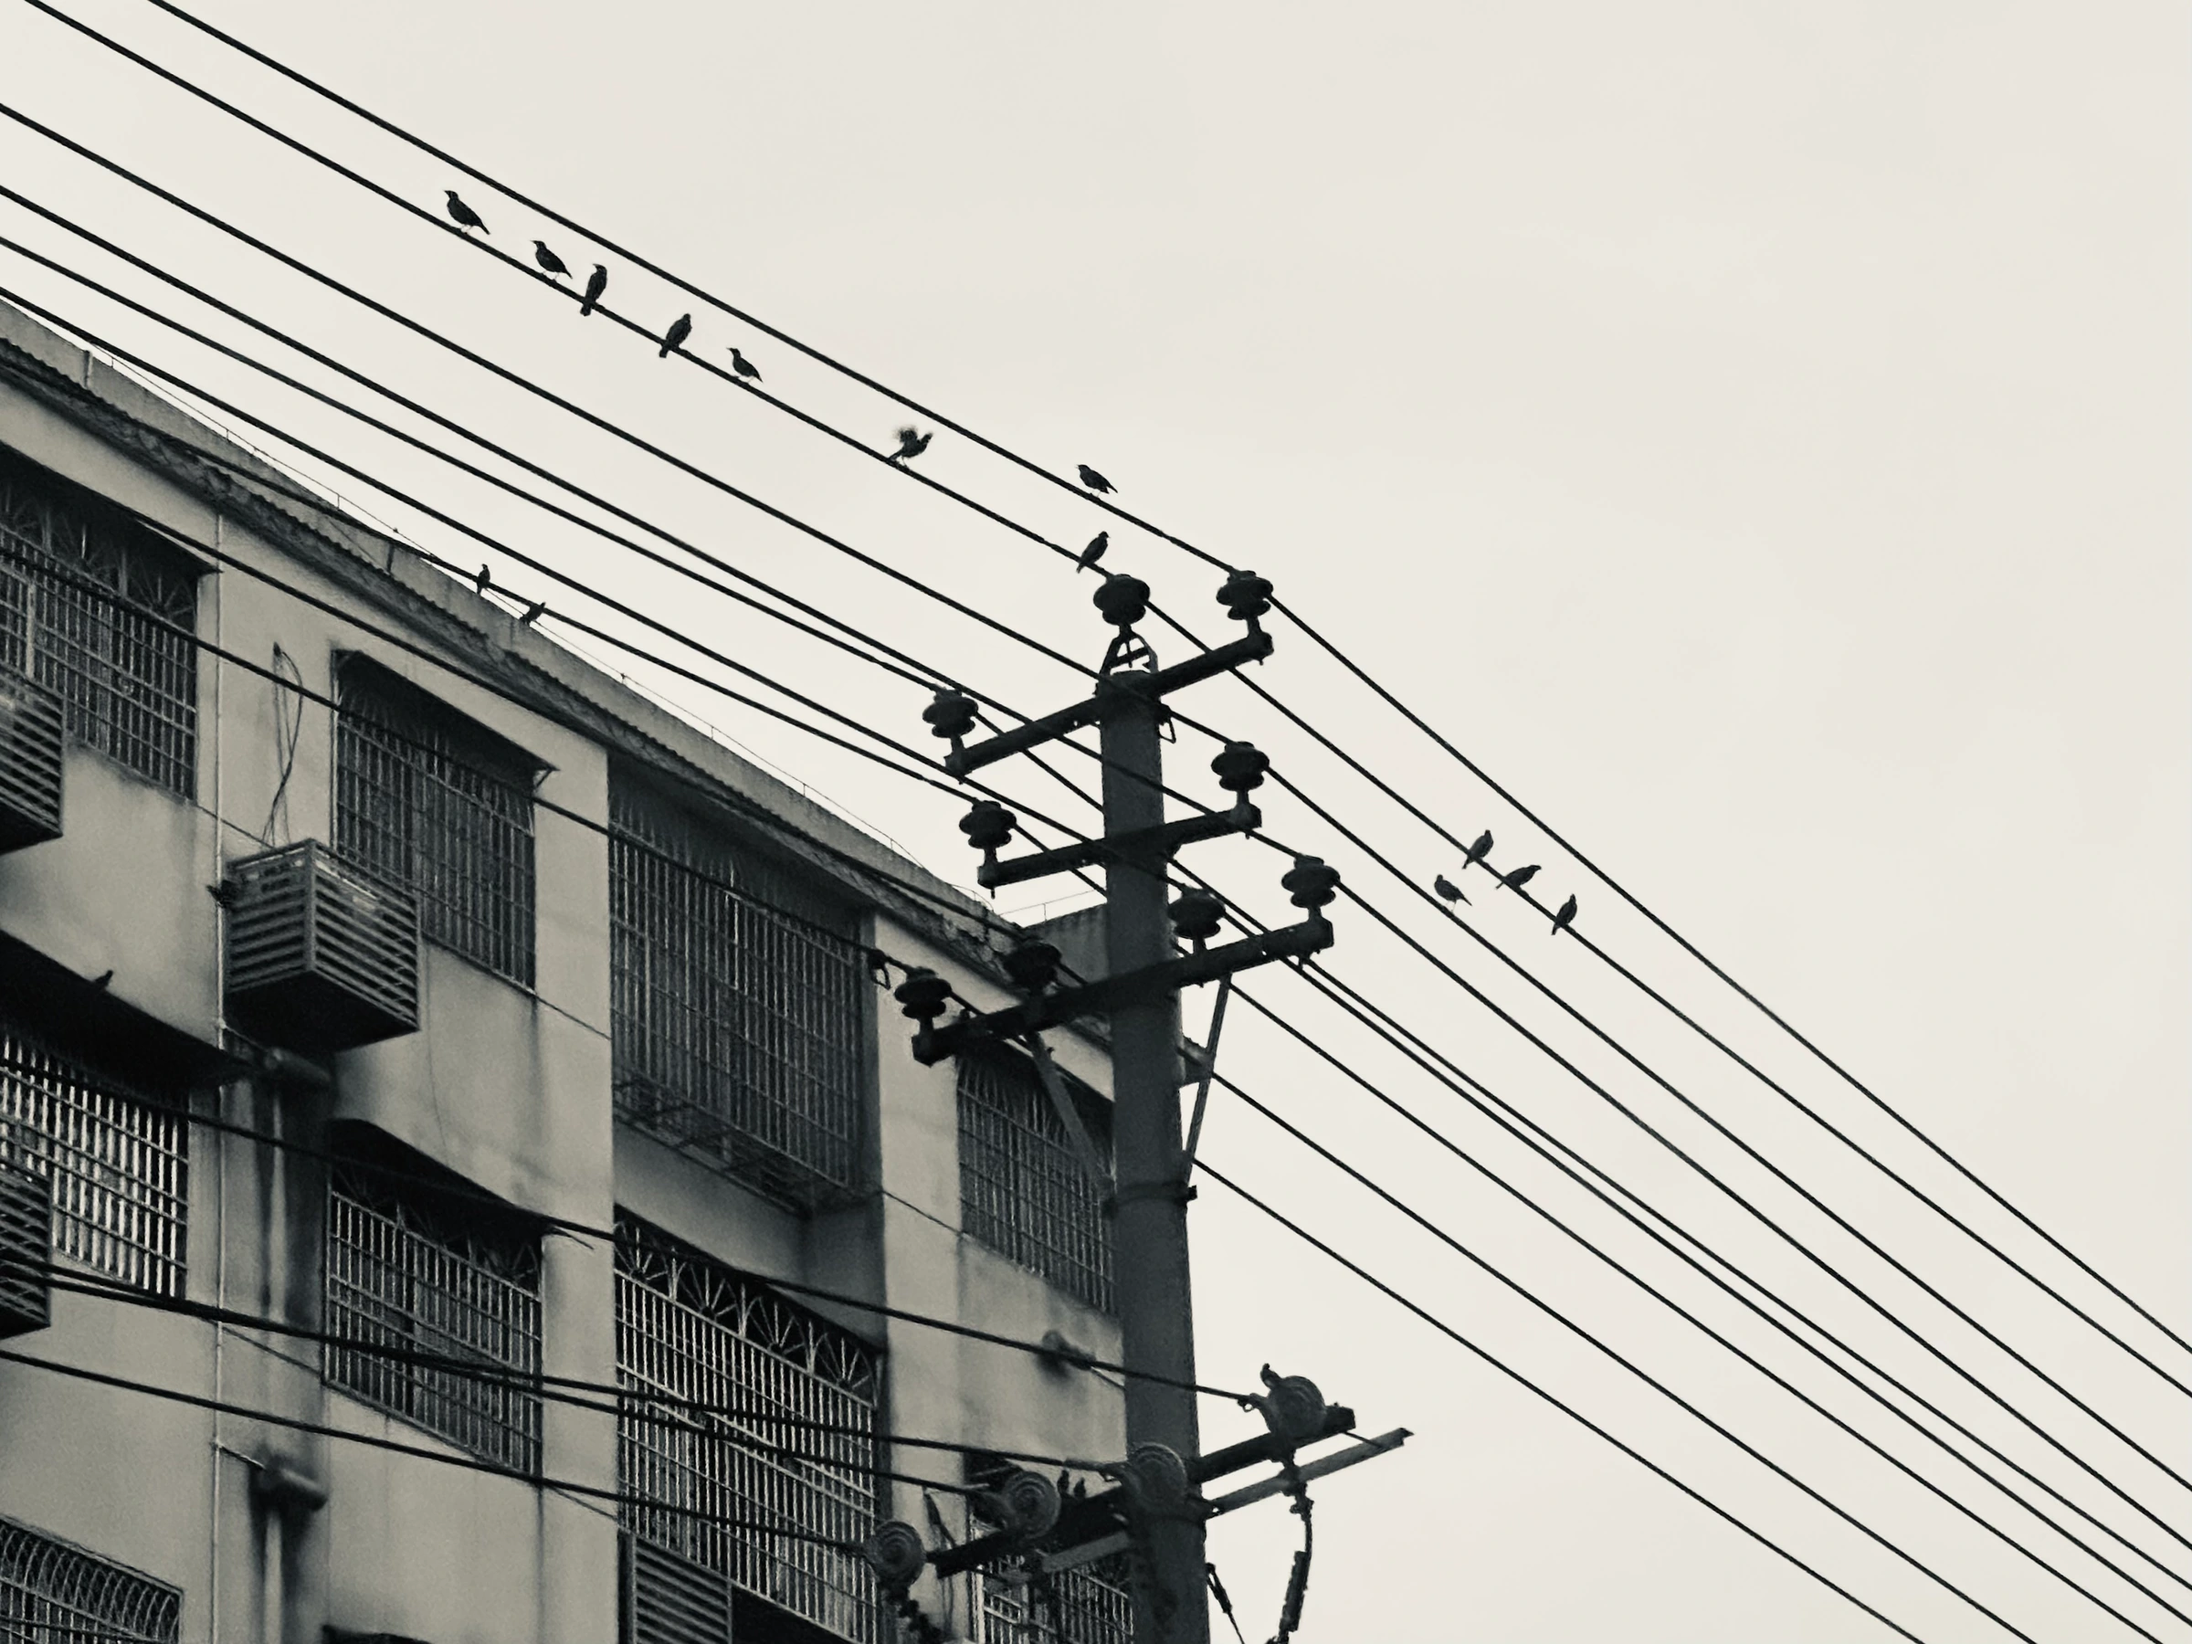
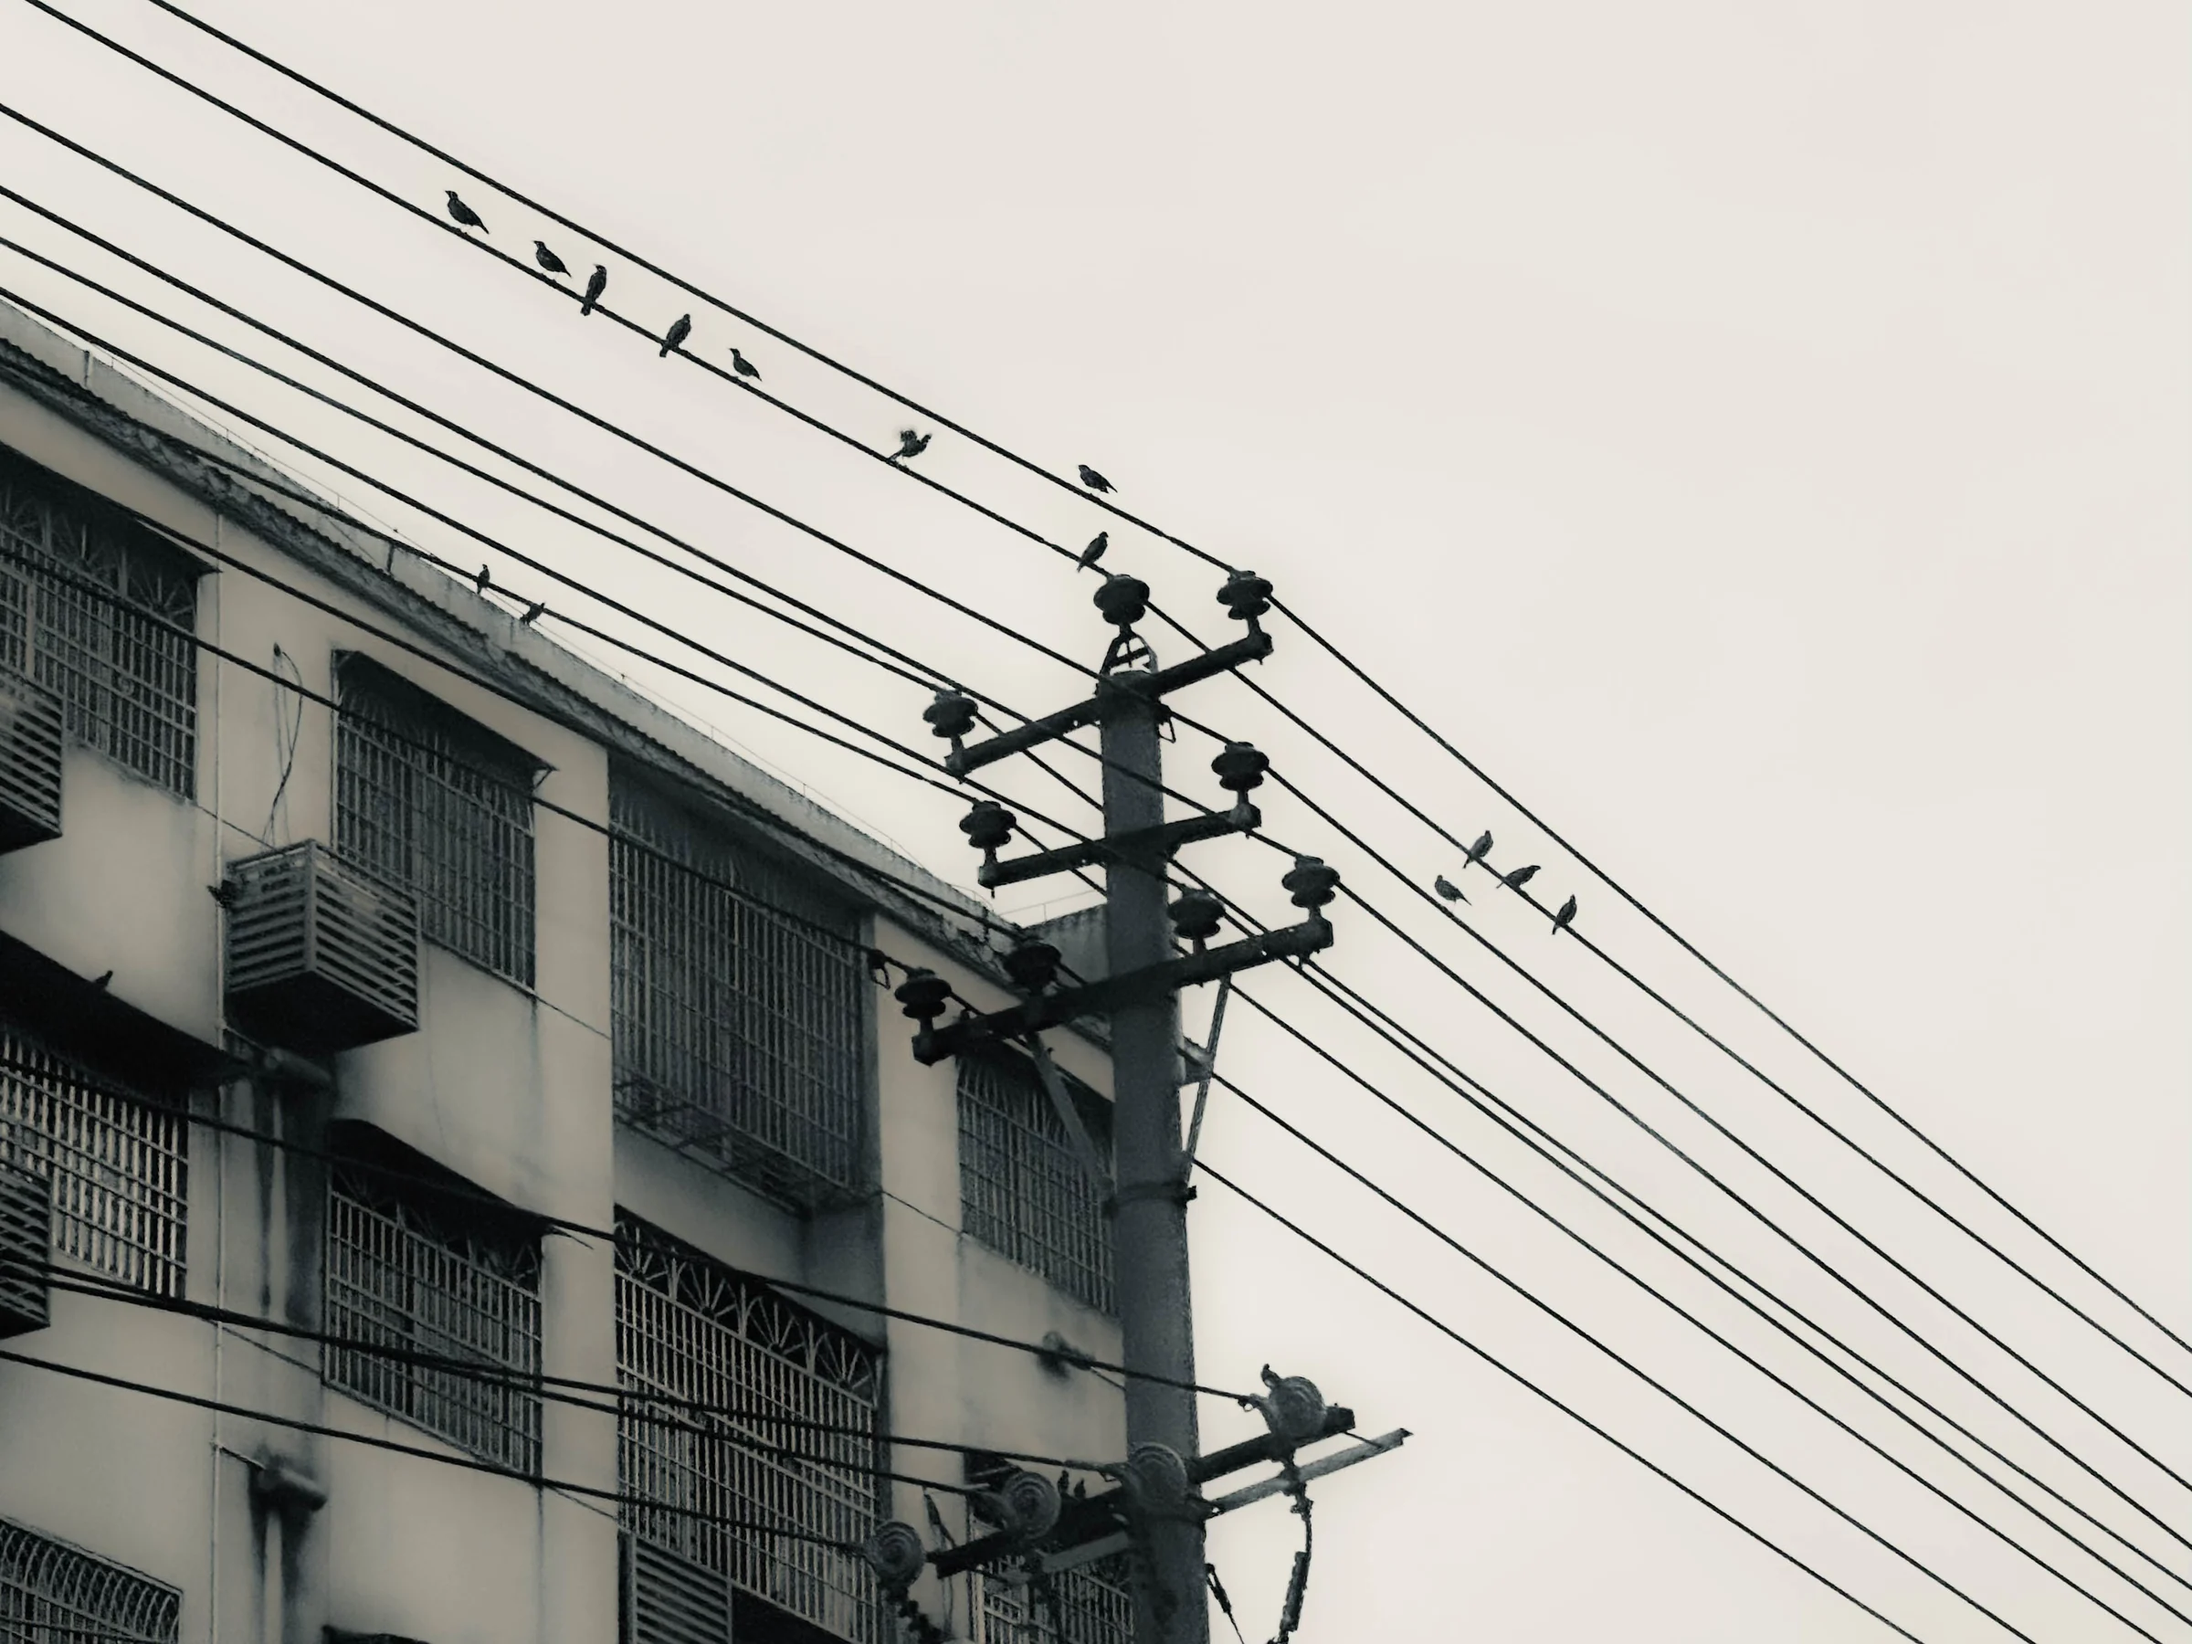
Expand photography gallery to all 25 supplied photos

diff --git a/src/portfolio.js b/src/portfolio.js
@@ -1,3 +1,5 @@
+import photography from './photography.json';
+
 export const profile = {
   name: '刘丹钰', romanized: 'LIU DANYU', email: '2984505134@qq.com',
   school: '湖南工业大学', major: '陶瓷艺术设计', education: '本科 · 2023.09—2027.06',
@@ -33,10 +35,10 @@ export const works = [
   {
     id:'photography',number:'03',title:'摄影',subtitle:'日常观察',category:'摄影作品',themes:['形态','色彩'],
     image:artwork('photo-1.webp'),alt:'浅色天空下有红框窗户和岁月痕迹的老楼立面',
-    intro:'建筑、枝叶与天空，\n日常里的停顿。',
-    description:'三张摄影作品记录建筑立面、街道电线与枝叶。不同场景里的线条、光影和色彩，构成日常观察的切片。',
-    process:'老楼窗框与立面形成纵向节奏，电线和停驻的鸟构成斜向排列，蓝天与暖色枝叶形成对照。第二张作品的原文件记录为「9月28日18：18 醴陵国瓷大道」。',
-    gallery:[asset('photo',1,'建筑立面'),asset('photo',2,'9月28日18：18 · 醴陵国瓷大道'),asset('photo',3,'枝叶与蓝天')],
+    intro:'街巷、山水与光影，\n日常里的停顿。',
+    description:`${photography.length} 张摄影作品，记录建筑与街巷、山水与田野，也关注窗格、枝叶和日常器物中的细节。从城市到自然，以不同场景中的线条、光影与色彩串起日常观察。`,
+    process:'门廊、窗格与电线形成画面中的线条；湖面和拱桥带来倒影；远山、田野与树林呈现不同的光线和色彩。第二张作品的原文件记录为「9月28日18：18 醴陵国瓷大道」，末张为《向上看》。',
+    gallery:photography.map(({index,label})=>({...asset('photo',index,label),thumbnail:artwork(`photo-${index}-thumb.webp`)})),
   },
   {
     id:'applications',number:'04',title:'果点 · 应用',subtitle:'FRUIT DOTS · 从平面到日常',category:'视觉应用',themes:['色彩','秩序'],

diff --git a/src/App.jsx b/src/App.jsx
@@ -54,7 +54,7 @@ function WorkDetail({ work, onClose, onChoose }) {
     <div className="gallery-panel">
       <div className="detail-image"><a href={selectedImage.src} target="_blank" rel="noreferrer" aria-label={`查看大图：${selectedImage.label}`}><img src={selectedImage.src} alt={`${work.title} · ${selectedImage.label}`} decoding="async" /></a></div>
       <div className="gallery-toolbar"><button aria-label="上一张图片" disabled={imageIndex===0} onClick={()=>setImageIndex(i=>i-1)}><ArrowRightIcon size={19} style={{transform:'rotate(180deg)'}} /></button><p aria-live="polite">{imageIndex+1} / {work.gallery.length} <span>{selectedImage.label}</span></p><button aria-label="下一张图片" disabled={imageIndex===work.gallery.length-1} onClick={()=>setImageIndex(i=>i+1)}><ArrowRightIcon size={19} /></button></div>
-      <div className="gallery-thumbnails" aria-label="作品图片">{work.gallery.map((img,i)=><button key={img.src} className={i===imageIndex?'selected':''} aria-pressed={i===imageIndex} aria-label={`查看图片：${img.label}`} onClick={()=>setImageIndex(i)}><img src={img.src} alt="" loading="lazy" decoding="async" /></button>)}</div>
+      <div className="gallery-thumbnails" aria-label="作品图片">{work.gallery.map((img,i)=><button key={img.src} className={i===imageIndex?'selected':''} aria-pressed={i===imageIndex} aria-label={`查看图片：${img.label}`} onClick={()=>setImageIndex(i)}><img src={img.thumbnail || img.src} alt="" loading="lazy" decoding="async" /></button>)}</div>
       <a className="full-image-link" href={selectedImage.src} target="_blank" rel="noreferrer">查看大图 <ArrowUpRightIcon size={16} /></a>
     </div>
     <div className="detail-content"><span className="eyebrow">档案 {work.number} / {work.category}</span><h3>{work.title}</h3><p className="detail-subtitle">{work.subtitle}</p><p className="detail-intro">{work.intro}</p>

diff --git a/scripts/import-photography.py b/scripts/import-photography.py
@@ -1,0 +1,62 @@
+"""Import the owner's photography folder as web images without changing originals."""
+import argparse
+import json
+from pathlib import Path
+from PIL import Image, ImageOps
+
+PHOTOS = [
+    ('_DSC6060.JPG', '建筑立面'),
+    ('9月28日18：18醴陵国瓷大道.jpg', '9月28日18：18 · 醴陵国瓷大道'),
+    ('微信图片_20240628122831.jpg', '枝叶与蓝天'),
+    ('_DSC0434.JPG', '门廊与光'),
+    ('_DSC0625.JPG', '晾晒的面条'),
+    ('_DSC0801.jpg', '池中浮叶'),
+    ('_DSC0809.JPG', '木桶与水瓢'),
+    ('_DSC1236.jpg', '草地上的牛'),
+    ('_DSC1425.jpg', '湖面与远山'),
+    ('_DSC1435.jpg', '山壁与公路'),
+    ('_DSC1720.JPG', '拱桥与倒影'),
+    ('_DSC1738.jpg', '田间青绿'),
+    ('_DSC1740.JPG', '田野与云'),
+    ('_DSC5827.jpg', '飞鸟'),
+    ('_DSC5918.jpg', '雾中的高楼'),
+    ('_DSC6057.jpg', '停泊的小船'),
+    ('_DSC6674.jpg', '林荫道路'),
+    ('_DSC8237-2.jpg', '林间草木'),
+    ('_DSC8238.jpg', '枝叶之间的天空'),
+    ('DSC_0570.jpg', '铁塔与电线'),
+    ('DSC_1589.jpg', '夕阳下的屋顶'),
+    ('DSC_1593.jpg', '山间光束'),
+    ('DSC_1689.jpg', '窗格与光影'),
+    ('微信图片_20240519144711.jpg', '夜色剪影'),
+    ('陶瓷艺术设计2304刘丹钰《向上看》.jpg', '向上看'),
+]
+
+def main():
+    parser = argparse.ArgumentParser(description=__doc__)
+    parser.add_argument('source', type=Path)
+    args = parser.parse_args()
+    root = Path(__file__).resolve().parents[1]
+    dest = root / 'public' / 'assets' / 'works'
+    available = {p.name for p in args.source.iterdir() if p.suffix.lower() in {'.jpg', '.jpeg', '.png'}}
+    assert available == {name for name, _ in PHOTOS}, 'Source photos do not match the import list'
+    gallery = []
+    total_input = total_output = 0
+    for i, (filename, label) in enumerate(PHOTOS, 1):
+        source = args.source / filename
+        total_input += source.stat().st_size
+        with Image.open(source) as original:
+            image = ImageOps.exif_transpose(original).convert('RGB')
+            for suffix, limit, quality in [('', 2400, 86), ('-thumb', 320, 78)]:
+                variant = image.copy()
+                variant.thumbnail((limit, limit), Image.Resampling.LANCZOS)
+                output = dest / f'photo-{i}{suffix}.webp'
+                variant.save(output, 'WEBP', quality=quality, method=6)
+                total_output += output.stat().st_size
+            gallery.append({'index': i, 'label': label})
+    payload = json.dumps(gallery, ensure_ascii=False, indent=2)
+    (root / 'src' / 'photography.json').write_text(payload + '\n', encoding='utf-8')
+    print(json.dumps({'photos': len(gallery), 'source_bytes': total_input, 'web_bytes': total_output}, ensure_ascii=False))
+
+if __name__ == '__main__':
+    main()

diff --git a/AGENTS.md b/AGENTS.md
@@ -10,6 +10,10 @@ When implementing from a selected generated mock, treat that image as the source
 
 Build app UI in `src/`. Keep `.openai/hosting.json`, `worker/index.js`, `scripts/prepare-sites-build.mjs`, and `tests/sites-worker.test.mjs` intact so the same local prototype can be handed to Sites. Before a Sites handoff, run `npm run build` and `npm run test:sites`; the build must leave `dist/client/index.html`, `dist/server/index.js`, and `dist/.openai/hosting.json`.
 
+## Photography update (2026-10-19)
+
+The owner requested all 25 photos in the local photography folder be included in the existing portfolio. Keep the current photography entry and its original first three images, followed by the additional 22 photos. `src/photography.json` holds the ordered gallery labels; `scripts/import-photography.py` imports the supplied originals as full-frame WebP images and separate thumbnails. Preserve the original files and the existing site design. The active public site is https://ahcasj-tech.github.io/Public-Private/.
+
 ## Responsive pass (2026-09-22)
 
 Owner asked for phone (375/390/430), tablet (768) and desktop (1440) support plus a Vercel deploy, without redesigning the approved direction. Keep pale lavender, condensed ultramarine title, the spatial artwork map and the thematic connections.
